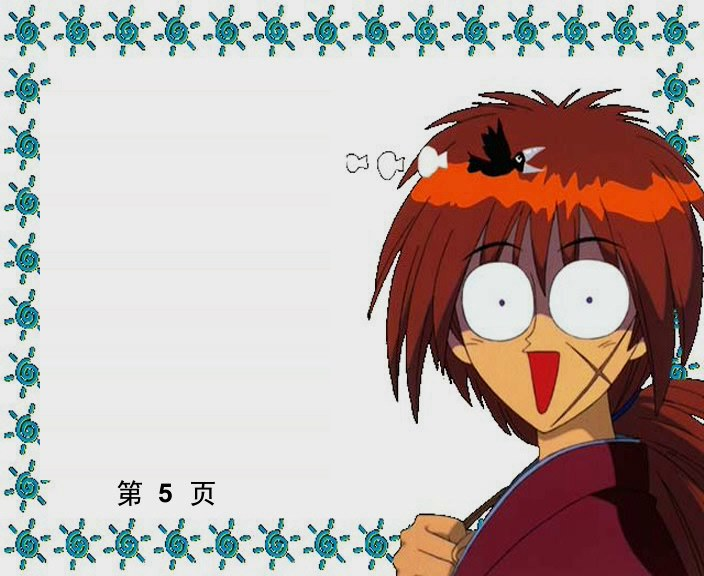
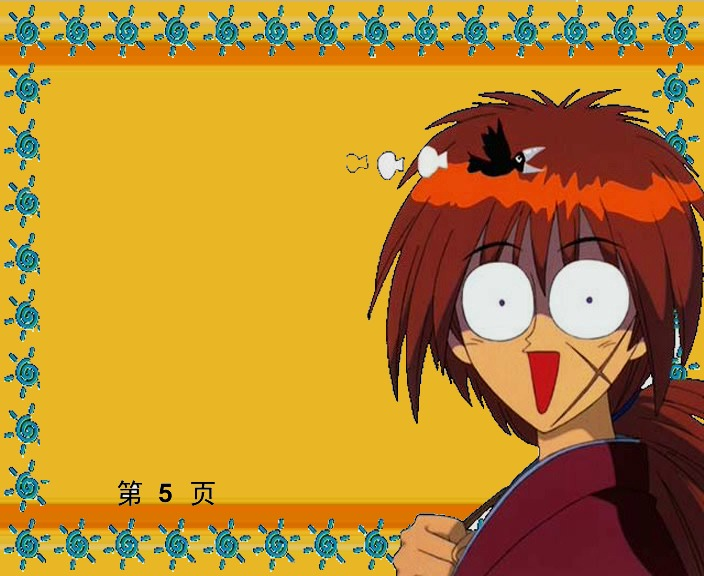
fix: show real ROM titles and clean menu backdrops
Menu now prefers the ROM-derived display name over the disc label; 28 entries were corrected (1944, Kiddy Sun in Fantasia, EXERION, Demo Vision...). Pages 2-30 of the reference sets are white with a Sample watermark, so the tool now normalizes them to the page-1 yellow base and fills the text box with the row median.

diff --git a/tools/prepare_menu_pages.py b/tools/prepare_menu_pages.py
@@ -4,13 +4,14 @@
 
 参考项目 VCD300-CHS-Games-Simulator 的 menus/01.png … 30.png 是重绘的完整页：
 右侧卡通画对应原盘每页的背景，左侧「游戏菜单 + 10 条 + 第 N 页」是后加的文字。
-本工具按逐行底色把左侧文字区填平，得到可以自己叠字的 30 张背景。
+本工具只检测并修补文字笔画，按同一行左右两侧的背景插值，避免整块刷色留下补丁。
 
     python tools/prepare_menu_pages.py --src menus --out assets/pages
 """
 import argparse
 import os
 import sys
+from collections import deque
 
 try:
     from PIL import Image
@@ -18,21 +19,67 @@ except ImportError:  # pragma: no cover
     print("需要 Pillow：pip install -r requirements-dev.txt")
     raise SystemExit(2)
 
-# 只抹标题和 10 行正文；底部「第 N 页」和花纹保留
+# 只处理标题和 10 行正文；底部「第 N 页」和花纹保留
 TEXT_BOX = (40, 90, 330, 480)
-SAMPLE_X = (45, 76)
+TEXT_LEVEL = 160          # 三通道都低于此值视为文字笔画
+DILATE = 2                # 覆盖抗锯齿边缘
+
+
+def _is_text(px, x, y):
+    r, g, b = px[x, y]
+    return r < TEXT_LEVEL and g < TEXT_LEVEL and b < TEXT_LEVEL
 
 
 def strip_text(im):
     w, h = im.size
     px = im.load()
     x0, y0, x1, y1 = TEXT_BOX
-    for y in range(y0, min(y1, h)):
-        vals = sorted(px[x, y] for x in range(*SAMPLE_X))
-        mid = len(vals) // 2
-        col = tuple((vals[mid - 1][c] + vals[mid][c]) // 2 for c in range(3))
-        for x in range(x0, min(x1, w)):
+    x1, y1 = min(x1, w), min(y1, h)
+
+    # 按整行（含文字区全宽）取中位数，避免只采样左侧窄条造成色块边界；
+    # 白底页会得到纯白，黄底页会得到该行的黄色，水印也一并覆盖。
+    for y in range(y0, y1):
+        vals = sorted(px[x, y] for x in range(x0, x1))
+        col = vals[len(vals) // 2]
+        for x in range(x0, x1):
             px[x, y] = col
+    return im
+
+
+def recolor_white_to_yellow(im, base):
+    """把与边缘连通的白色/浅灰背景换成 base 的黄底，保留封闭的白色高光"""
+    w, h = im.size
+    px = im.load()
+    bpx = base.load()
+    bg = bytearray(w * h)
+
+    def is_bg(c):
+        return min(c) > 170 and max(c) - min(c) < 40
+
+    q = deque()
+    for x in range(w):
+        for y in (0, h - 1):
+            if is_bg(px[x, y]) and not bg[y * w + x]:
+                bg[y * w + x] = 1
+                q.append((x, y))
+    for y in range(h):
+        for x in (0, w - 1):
+            if is_bg(px[x, y]) and not bg[y * w + x]:
+                bg[y * w + x] = 1
+                q.append((x, y))
+    while q:
+        x, y = q.popleft()
+        for nx, ny in ((x - 1, y), (x + 1, y), (x, y - 1), (x, y + 1)):
+            if 0 <= nx < w and 0 <= ny < h and not bg[ny * w + nx]:
+                if is_bg(px[nx, ny]):
+                    bg[ny * w + nx] = 1
+                    q.append((nx, ny))
+    for y in range(h):
+        col = bpx[20, y]
+        row = y * w
+        for x in range(w):
+            if bg[row + x]:
+                px[x, y] = col
     return im
 
 
@@ -43,6 +90,7 @@ def main(argv=None):
     args = ap.parse_args(argv)
 
     os.makedirs(args.out, exist_ok=True)
+    base = Image.open(os.path.join(args.src, "01.png")).convert("RGB")
     n = 0
     for i in range(1, 31):
         p = os.path.join(args.src, "%02d.png" % i)
@@ -50,6 +98,8 @@ def main(argv=None):
             print("缺少", p)
             return 1
         im = strip_text(Image.open(p).convert("RGB"))
+        if i > 1:
+            im = recolor_white_to_yellow(im, base)
         im.save(os.path.join(args.out, "%02d.png" % i))
         n += 1
     print("处理 %d 页 -> %s" % (n, args.out))

diff --git a/tools/sync_display_titles.py b/tools/sync_display_titles.py
@@ -1,0 +1,68 @@
+#!/usr/bin/env python3
+# -*- coding: utf-8 -*-
+"""用 data/roms.csv 的真实 ROM 文件名重建 catalog 的 display 字段
+
+菜单优先显示 display，因此碟面标签（dvd_name）写错时，列表仍以真实 ROM 为准。
+文件名本身乱码时保留原 display，再回退 dvd_name。
+
+    python tools/sync_display_titles.py
+"""
+import argparse
+import csv
+import json
+import os
+import sys
+
+sys.path.insert(0, os.path.join(os.path.dirname(__file__), ".."))
+
+from rdvd.titles import clean_rom_title, valid_title  # noqa: E402
+
+
+def load_slots(path):
+    slots = {}
+    with open(path, encoding="utf-8-sig", newline="") as fh:
+        for row in csv.DictReader(fh):
+            for g in row["slots"].split(";"):
+                g = g.strip()
+                if g:
+                    slots[int(g[1:])] = row["rom_name"]
+    return slots
+
+
+def main(argv=None):
+    ap = argparse.ArgumentParser()
+    ap.add_argument("--catalog", default=os.path.join("data", "catalog.json"))
+    ap.add_argument("--roms", default=os.path.join("data", "roms.csv"))
+    args = ap.parse_args(argv)
+
+    slots = load_slots(args.roms)
+    with open(args.catalog, encoding="utf-8") as fh:
+        catalog = json.load(fh)
+
+    changed = 0
+    for e in catalog["entries"]:
+        raw = slots.get(e["num"], "")
+        cleaned = clean_rom_title(raw)
+        if valid_title(cleaned):
+            new = cleaned
+        elif valid_title(e.get("display")):
+            new = e["display"]
+        elif valid_title(e.get("dvd_name")):
+            new = e["dvd_name"]
+        else:
+            new = e.get("gname") or e.get("title") or ""
+        if new and new != e.get("display"):
+            e["display"] = new
+            changed += 1
+        if raw:
+            e["rom_name"] = raw
+
+    with open(args.catalog, "w", encoding="utf-8", newline="\n") as fh:
+        json.dump(catalog, fh, ensure_ascii=False, indent=2)
+        fh.write("\n")
+    print("更新 %d 个 display -> %s" % (changed, args.catalog))
+    return 0
+
+
+if __name__ == "__main__":
+    sys.exit(main())

diff --git a/tests/test_titles.py b/tests/test_titles.py
@@ -1,0 +1,47 @@
+# -*- coding: utf-8 -*-
+"""真实 ROM 标题与菜单优先级的测试"""
+import os
+import unittest
+
+os.environ.setdefault("SDL_VIDEODRIVER", "dummy")
+os.environ.setdefault("SDL_AUDIODRIVER", "dummy")
+
+import pygame  # noqa: E402
+
+from rdvd.menu import Menu  # noqa: E402
+from rdvd.titles import clean_rom_title, valid_title  # noqa: E402
+
+
+def catalog(display="", dvd_name=""):
+    return {"entries": [{
+        "num": 1, "gname": "G001", "rom": "G001.nes",
+        "title": "raw", "display": display, "dvd_name": dvd_name,
+    }]}
+
+
+class TestTitles(unittest.TestCase):
+    def test_clean_disc_prefix(self):
+        self.assertEqual(clean_rom_title("[123]射击类-1942.NES"), "1942")
+
+    def test_clean_region_and_translation_tags(self):
+        self.assertEqual(
+            clean_rom_title("Kiddy Sun in Fantasia (Asia).nes"),
+            "Kiddy Sun in Fantasia")
+        self.assertEqual(
+            clean_rom_title("B-Wings (Japan) [T-En by X v1.0].nes"), "B-Wings")
+
+    def test_mojibake_is_invalid(self):
+        self.assertFalse(valid_title("▒Σ╨╬╒╜╗·Z"))
+        self.assertTrue(valid_title("1942"))
+
+    def test_menu_prefers_real_display(self):
+        pygame.init()
+        try:
+            m = Menu(catalog("1944", "1943"))
+            self.assertEqual(m.label(m.entries[0]), "1944")
+        finally:
+            pygame.quit()
+
+
+if __name__ == "__main__":
+    unittest.main()

diff --git a/rdvd/menu.py b/rdvd/menu.py
@@ -223,6 +223,11 @@ class Menu:
         self._page_cache[page_no] = img
         return img
 
+    def label(self, entry):
+        """列表显示真实 ROM 名（display），碟面标签只作回退"""
+        return (entry.get("display") or entry.get("dvd_name")
+                or entry.get("title") or "")
+
     def _render_dvd(self, surf):
         w, h = self.size
         art = self._page_bg()
@@ -257,7 +262,7 @@ class Menu:
             num = f.render("%d." % (i + 1), True, color)
             surf.blit(num, (92, y))
 
-            title = e.get("dvd_name") or e.get("display") or e["title"]
+            title = self.label(e)
             maxw = 246
             if f.size(title)[0] > maxw:
                 while title and f.size(title + "…")[0] > maxw:
@@ -369,7 +374,7 @@ class Menu:
             num = fnum.render("%03d" % e["num"], True, numc)
             surf.blit(num, (r.x + 12, r.centery - num.get_height() // 2))
 
-            title = e.get("dvd_name") or e.get("display") or e["title"]
+            title = self.label(e)
             maxw = r.width - 80 - (48 if e.get("dup_of") else 0)
             if f.size(title)[0] > maxw:
                 while title and f.size(title + "…")[0] > maxw:

diff --git a/rdvd/titles.py b/rdvd/titles.py
@@ -1,0 +1,28 @@
+# -*- coding: utf-8 -*-
+"""从 ROM 文件名得到可显示的标题，并识别历史数据里的乱码。"""
+import os
+import re
+
+_MOJIBAKE = set("▒╬╙╫╒╞╨╣╩┐┴╜╗║╝╚╔")
+
+
+def clean_rom_title(name):
+    """`[123]射击类-1942.NES` -> `1942`，去掉区域/翻译/版本标签"""
+    if not name:
+        return ""
+    s = os.path.basename(name.replace("\\", "/"))
+    s = os.path.splitext(s)[0]
+    s = re.sub(r"^\s*\[\d{3}\][^-]*-", "", s)
+    s = re.sub(r"\[[^\]]*\]", " ", s)
+    s = re.sub(r"\([^)]*\)", " ", s)
+    s = re.sub(r"\s+", " ", s).strip(" -_.")
+    s = re.sub(r"汉化版$", "", s).strip()
+    return s
+
+
+def valid_title(text):
+    if not text or not text.strip():
+        return False
+    if "\ufffd" in text:
+        return False
+    return not any(ch in _MOJIBAKE for ch in text)

diff --git a/README.md b/README.md
@@ -97,6 +97,7 @@ slots). To pick them from a local collection and lay them out as `roms/G001.nes`
 
 ```bash
 python tools/pick_roms.py --source "D:\No-Intro\NES" --out roms
+python tools/sync_display_titles.py
 ```
 
 The tool hashes `.nes` files and the inner ROM of `.zip` archives, matches MD5 exactly,
